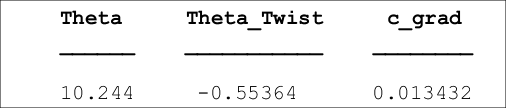
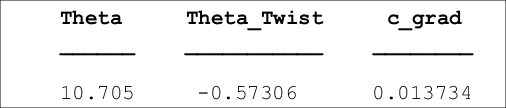
Keep adash in range and other minor fixes/updates.

Changed region(s): [[0.4743, 0.7778, 0.5929, 0.9167], [0.1779, 0.7778, 0.2668, 0.9167], [0.8597, 0.7778, 0.9486, 0.9167]]

diff --git a/main_loopedmulti.m b/main_loopedmulti.m
@@ -25,25 +25,28 @@ globaldata.flags.tiploss=true;
 globaldata.flags.overrideLimits=false;
 tic;
 
-globaldata.maxiters=250;
+globaldata.maxiters=100;
 
-paramStepSize=[7,5,3];
+paramStepSize=[8,3,2];
 globaldata.ms.loops=prod(paramStepSize);
 progressbar('Optimisation');
 
 opts = optimset('fminsearch');
 opts.Display = 'iter'; %What to display in command window
 opts.TolX = 0.0001; %Tolerance on the variation in the parameters
-opts.TolFun = 1; %Tolerance on the error
+opts.TolFun = 1000; %Tolerance on the error
 opts.OutputFcn = @(x,optimValues,state)optMonitor(x,optimValues,state,globaldata); %Tolerance on the error
 opts.MaxIter = globaldata.maxiters-1; %Max number of iterations
 
 % Set iteration options.
 UBs=[deg2rad(20) deg2rad(0.5) 0.099];
 LBs=[deg2rad(2) deg2rad(-2) -0.1];
-thetas=linspace(LBs(1),UBs(1),paramStepSize(1));
-theta_twists=linspace(LBs(2),UBs(2),paramStepSize(2));
-c_grads=linspace(LBs(3),UBs(3),paramStepSize(3));
+thetas=linspace(LBs(1),UBs(1),paramStepSize(1)+2);
+thetas(1)=[]; thetas(end)=[];
+theta_twists=linspace(LBs(2),UBs(2),paramStepSize(2)+2);
+theta_twists(1)=[]; theta_twists(end)=[];
+c_grads=linspace(LBs(3),UBs(3),paramStepSize(3)+2);
+c_grads(1)=[]; c_grads(end)=[];
 
 % Current best diff
 curr_best_diff=1e11;

diff --git a/checkOptima.m b/checkOptima.m
@@ -5,7 +5,7 @@ function [xdeg_co] = checkOptima(x,globaldata)
 globaldata.flags.overrideLimits=true;
 
 %% Changing Theta 0
-N=300;
+N=500;
 variableSpace=linspace(deg2rad(2),deg2rad(18),N);
 aepHold=zeros(1,N);
 progressbar('Finding AEPs - Changing Theta');
@@ -34,7 +34,7 @@ plot(rad2deg(variableSpace),aepHold,'b-');
 globaldata.flags.overrideLimits=false;
 
 %% Changing Theta twist
-N=300;
+N=150;
 variableSpace=linspace(deg2rad(-1.5),deg2rad(0.5),N);
 aepHold=zeros(1,N);
 progressbar('Finding AEPs - Changing Theta Twist');
@@ -50,7 +50,7 @@ plot(rad2deg(variableSpace),aepHold);
 xdeg_co=[rad2deg(x(1)),rad2deg(x(2)),x(3)];
 
 %% Changing c_grad
-N=300;
+N=150;
 variableSpace=linspace(-0.1,0.1,N);
 aepHold=zeros(1,N);
 progressbar('Finding AEPs - Changing Chord Gradient');

diff --git a/main.m b/main.m
@@ -36,7 +36,7 @@ opts.TolX = 0.0001; %Tolerance on the variation in the parameters
 opts.TolFun = 1; %Tolerance on the error
 opts.OutputFcn = @(x,optimValues,state)optMonitor(x,optimValues,state,globaldata); %Tolerance on the error
 opts.MaxIter = globaldata.maxiters-1; %Max number of iterations
-[x, diff, exitflag] = fminsearchbnd(@(x)aepCost(x,globaldata), [deg2rad(11) deg2rad(-0.5) -0.5], [deg2rad(2) deg2rad(-2) -0.1], [deg2rad(20) deg2rad(0.5) 0.099], opts);
+[x, diff, exitflag] = fminsearchbnd(@(x)aepCost(x,globaldata), [deg2rad(10.577) deg2rad(-0.56) 0.013], [deg2rad(2) deg2rad(-2) -0.1], [deg2rad(20) deg2rad(0.5) 0.099], opts);
 xdeg=[rad2deg(x(1)),rad2deg(x(2)),x(3)];
 if exitflag==1
     disp('Optimiser SOLVED.');

diff --git a/WTVelocityRange.m b/WTVelocityRange.m
@@ -43,10 +43,10 @@ for vn=1:N
     
     if(max(momentHold)>globaldata.M_rootmax && globaldata.flags.overrideLimits==false)
         local_power=0;
-        %disp(['Moment Limit Exceeded: ' num2str(max(momentHold))]);
+        disp(['Moment Limit Exceeded: ' num2str(max(momentHold))]);
     elseif(abs(def_zHold(end))>3 && globaldata.flags.overrideLimits==false)
         local_power=0;
-        %disp(['Deflections Exceeded - z: ' num2str(abs(def_zHold(end)))]);
+        disp(['Deflections Exceeded - z: ' num2str(abs(def_zHold(end)))]);
     else
     local_power=0.5*(powerHold(1,vn)+powerHold(1,vn+1));
         if local_power<0

diff --git a/WTInducedCalcs.m b/WTInducedCalcs.m
@@ -81,6 +81,14 @@ for i=1:looplimit
             if ~isreal(adash_in)
                 adash_in=real(adash_in)*0.95;
             end
+            if adash_in>1
+            adash_in=0.99;
+            %disp('Resetting adash');
+            elseif adash_in<0
+            %disp(['Resetting adash - ' num2str(adash_in)]);
+            adash_in=0.01;
+            
+            end
             
         else
             adash_in=0;
